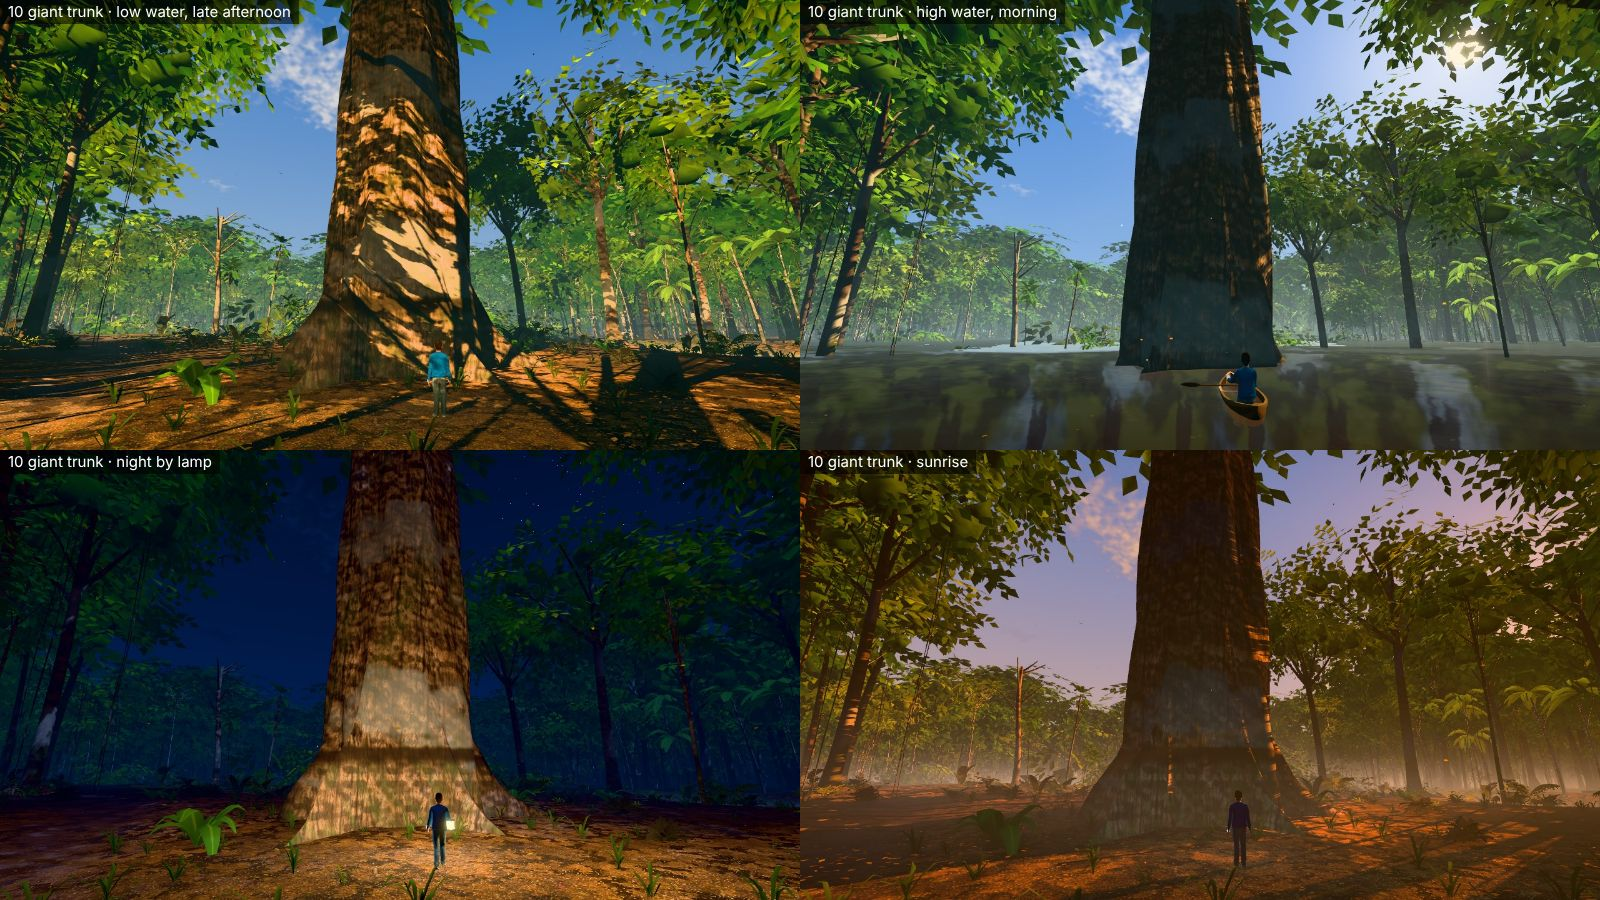
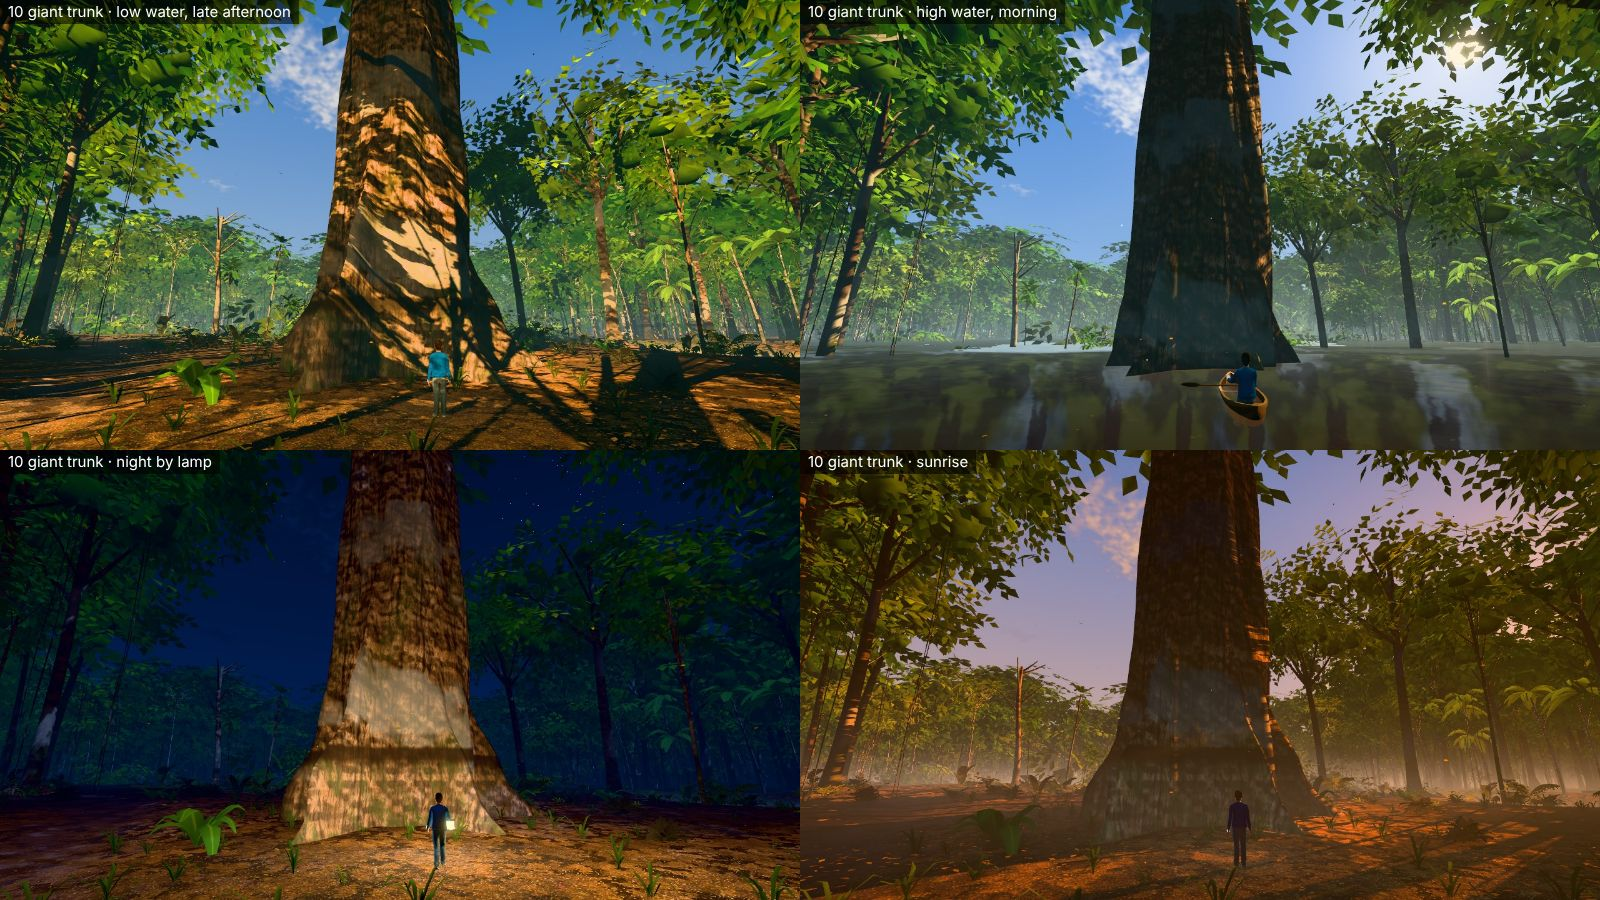
Giant trunk wall-roots, fish beside the canoe in the lake sheet, driftwood sunk into the sand
Claude-Session: https://claude.ai/code/session_01GrVJbQmiYrY8pANU95x3Vf

diff --git a/src/world/structures.ts b/src/world/structures.ts
@@ -293,17 +293,17 @@ export function buildStructures(hf: Heightfield, group: THREE.Object3D, markedTr
     for (let j = 0; j <= rings; j++) {
       const v = Math.pow(j / rings, 2.2), y = v * Hh
       const R0 = 3.3 - 1.0 * v
-      const foot = 0.55 * Math.exp(-y / 1.4)
+      const foot = 0.3 * Math.exp(-y / 1.0)
       for (let i = 0; i < sides; i++) {
         const th = (i / sides) * Math.PI * 2
         const ph = th * fins + Math.sin(th * 2) * 0.8
         const k = Math.round(ph / (Math.PI * 2))
         const size = 0.72 + 0.28 * Math.sin(k * 2.4 + 1)
-        const top = 6.5 + 4.5 * (0.5 + 0.5 * Math.sin(k * 1.7 + 2))
-        const fin = Math.pow(0.5 + 0.5 * Math.cos(ph), 30)
-        const reach = y < top ? 5.2 * size * Math.pow(1 - y / top, 3.0) * (1 + 0.12 * Math.sin(y * 1.9 + k)) : 0
+        const top = 8 + 5 * (0.5 + 0.5 * Math.sin(k * 1.7 + 2))
+        const fin = Math.pow(0.5 + 0.5 * Math.cos(ph), 11)
+        const reach = y < top ? 5.2 * size * Math.pow(1 - y / top, 2.1) * (1 + 0.12 * Math.sin(y * 1.9 + k)) : 0
         const lump = 1 + 0.07 * Math.sin(th * 5 + y * 0.21) + 0.04 * Math.sin(th * 11 - y * 0.5)
-        const rr = R0 * lump + foot + reach * (fin + 0.06 * Math.pow(0.5 + 0.5 * Math.cos(ph), 3))
+        const rr = R0 * lump + foot + reach * fin
         g.v(Math.cos(th) * rr, y, Math.sin(th) * rr, Math.cos(th), 0.2, Math.sin(th), 0, v, 0)
       }
     }

diff --git a/src/world/forestCook.ts b/src/world/forestCook.ts
@@ -262,7 +262,7 @@ export function cookForest(hf: Heightfield, density: number, progress: (f: numbe
     const strand = kind.bank > 0.2 || (kind.dry > 0.15 && kind.dry < 0.7) || kind.sand > 0.3
     if (!strand && roll > 0.3) continue
     if (kind.channel > 0.12 && roll > 0.12) continue
-    if (strand && seed > 0.45) R.spDrift.push(x, h - 0.16, z, rl.range(1.4, 3.2), rot, seed, 1, rl())
+    if (strand && seed > 0.45) { const ds = rl.range(1.4, 3.2); R.spDrift.push(x, h - 0.13 * ds, z, ds, rot, seed, 1, rl()) }
     else if (seed < 0.14 && len > 2.5) R.spTree.push(x, h - 0.05, z, len / 1.77, rot, seed, 1, rl())
     else R.log.push(x, h + rad * 0.5, z, len, rot, seed, rad, 0)
   }
